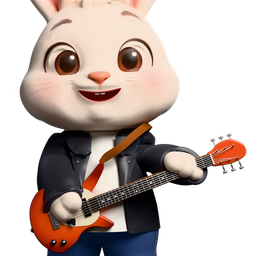
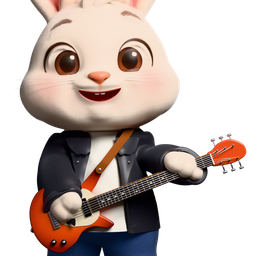
Rabi'yi Giydir: Doktor panosuz, Hukukçu kitapsız; kemer ve patiler düzeltildi

Changed region(s): [[0.3125, 0.4688, 0.625, 0.75]]

diff --git a/docs/kurallar/maskot-ve-ikon.md b/docs/kurallar/maskot-ve-ikon.md
@@ -199,6 +199,12 @@ Rabi proje kurallarının bir parçası — dizin ve genel kurallar: [AGENTS.md]
     dalgalanıyordu); kot üst sınırı 0.385 (0.44 tişörtü delip mavi şerit gösteriyordu).
   - Ninja: silah yok (öğrenci uygulaması); kol kameraya uzatılmaz, yana açılır (yen ağzı boş boru gibi
     görünüyordu); sargı patinin şişkinliğinden önce biter.
+  - **Doktor'da dosya panosu, Hukukçu'da kitap yok** (kullanıcı kaldırttı, 2026-11-05; geri getirme).
+  - **Pati ayrı örgüdür** (Doktor, Hukukçu, Ninja): gövde patisi bükülünce yırtılıyor ya da küt, tek
+    kıvrımlı, uygunsuz bir şekil gibi okunuyordu. Kısa geniş avuç + dört yumuşak boğum, gövde patisi
+    gizli (`doktor_temizle.py` → `pati_kur`, `ninja_kur.py` → `Ninja_Pati`).
+  - Gitar kemeri düz iner, boynun arkasına geçer, gitara düğmeyle bağlanır (kullanıcı "yakada bozuk"
+    dedi: ortada S kırığı vardı, üst ucu çene altında kesik bitiyordu).
 - **Sigma Rabi hazır avatar** (kullanıcı istedi, 2026-10-31): **özelleştirilemez**;
   seçilince öbür eşyalar çıkar, eşya seçilince avatar çıkar (`hazir: true`, `giy`).
   Tek görsel `sigma.png` (Rabi + takım + yer gölgesi, `katman_takim.py`); altında
